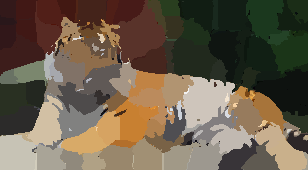
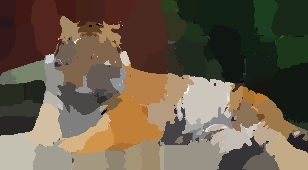
asd

diff --git a/Lab3/mixture_prob.m b/Lab3/mixture_prob.m
@@ -1,0 +1,76 @@
+function prob = mixture_prob(image, K, L, mask)
+    [col, row, channels] = size(image);
+    
+   
+    
+    Ivec = double(reshape(image, col*row, channels));
+    Mvec = double(reshape(mask, col*row, 1));
+    %I = image .* repmat(mask, [1,1,3]);
+    I = (bsxfun(@times, Ivec, cast(Mvec,class(Ivec))));
+    cov = cell(K,1);
+    w = zeros(K,1);
+    w(:) = 1/K;
+    u = zeros(K,3);
+    maskedP = find(Mvec);
+    if size(maskedP,1) == 0
+        prob = zeros(col,row);
+        return;
+    end
+    for k = 1:K
+        i = maskedP(randi(size(maskedP,1)));
+        u(k,:) = I(i,:);
+        cov{k} = eye(3);
+    end
+    
+    g = zeros(K, col*row);
+    %p = zeros(K, col*row);
+    for l = 1:L
+        %calculate g
+        for k = 1:K
+            g(k,:) = mvnpdf(I,u(k),cov{k});
+        end
+        %calculate p
+        lowerSum = w' * g;
+        lowerSum(lowerSum == 0) = 1;
+        base = repmat(w, [1,col*row]) .* g;
+        p = base ./ lowerSum;
+        %for i = 1:col*row
+        %   wgk = w .* g(:,i);
+        %   lower = sum(wgk);
+        %   p(:,i) = wgk ./ lower;         
+        %end
+        %calculate w
+        w = mean(p,2);
+        %calculate mean
+        lowerSum = sum(p,2);
+        
+        u =  (p * I) ./ lowerSum;
+        
+        %calculate cov
+        for k = 1:K
+            cov{k} = zeros(channels,channels);
+            for i = 1:col*row
+                diff = I(i,:) - u(k,:);
+                diff = p(k,i).*(diff' * diff);
+                cov{k} = cov{k} + diff;
+            end
+           %diff = I - repmat(u(k,:), [col*row,1]);
+           %diff = 
+           %left = repmat(p(k,:)',[1,3]);
+           %disp(size(diff));
+           %left = diff .* left;
+           %cov{k} = left ./ lowerSum(k);
+        end
+                
+    end
+    
+    prob = sum(repmat(w, [1,col*row]) .* g,1);
+    disp(size(prob));
+    %prob = bsxfun(@times, prob, Mvec');
+    
+    
+    %prob = uint8(reshape(I, col, row, channels));
+    
+    
+end
+

diff --git a/Lab3/bildat_lab3/norm_cuts_example.m b/Lab3/bildat_lab3/norm_cuts_example.m
@@ -1,9 +1,9 @@
-colour_bandwidth = 20.0; % color bandwidth
+colour_bandwidth = 8.0; % color bandwidth
 radius = 3;              % maximum neighbourhood distance
-ncuts_thresh = 0.2;      % cutting threshold
+ncuts_thresh = 0.5;      % cutting threshold
 min_area = 200;          % minimum area of segment
 max_depth = 8;           % maximum splitting depth
-scale_factor = 0.4;      % image downscale factor
+scale_factor = 0.5;      % image downscale factor
 image_sigma = 2.0;       % image preblurring scale
 
 I = imread('tiger2.jpg');
@@ -16,6 +16,9 @@ I = imfilter(I, h);
 segm = norm_cuts_segm(I, colour_bandwidth, radius, ncuts_thresh, min_area, max_depth);
 Inew = mean_segments(Iback, segm);
 I = overlay_bounds(Iback, segm);
-imwrite(Inew,'result/normcuts1.png')
-imwrite(I,'result/normcuts2.png')
+imwrite(Inew,'bildat_lab3/result/normcuts1.png')
+imwrite(I,'bildat_lab3/result/normcuts2.png')
+subplot(1,2,1); imshow(Inew);
+subplot(1,2,2); imshow(I);
+
 

diff --git a/Lab3/bildat_lab3/graphcut_example.m b/Lab3/bildat_lab3/graphcut_example.m
@@ -1,5 +1,5 @@
 scale_factor = 0.5;          % image downscale factor
-area = [ 80, 110, 570, 300 ] % image region to train foreground with
+area = [ 80, 110, 570, 300 ];% image region to train foreground with
 K = 16;                      % number of mixture components
 alpha = 8.0;                 % maximum edge cost
 sigma = 10.0;                % edge cost decay factor
@@ -12,9 +12,9 @@ area = int16(area*scale_factor);
 
 Inew = mean_segments(Iback, segm);
 I = overlay_bounds(Iback, segm);
-imwrite(Inew,'result/graphcut1.png')
-imwrite(I,'result/graphcut2.png')
-imwrite(prior,'result/graphcut3.png')
-subplot(2,2,1); imshow(Inew);
-subplot(2,2,2); imshow(I);
-subplot(2,2,3); imshow(prior);
+imwrite(Inew,'bildat_lab3/result/graphcut1.png')
+imwrite(I,'bildat_lab3/result/graphcut2.png')
+imwrite(prior,'bildat_lab3/result/graphcut3.png')
+%subplot(2,2,1); imshow(Inew);
+%subplot(2,2,2); imshow(I);
+%subplot(2,2,3); imshow(prior);

diff --git a/Lab3/bildat_lab3/graphcut_segm.m b/Lab3/bildat_lab3/graphcut_segm.m
@@ -7,7 +7,6 @@ dh = area(4) - area(2) + 1;
 mask = uint8([zeros(area(2)-1,w); zeros(dh,area(1)-1), ones(dh,dw), ...
 	     zeros(dh,w-area(3)); zeros(h-area(4),w)]);
 Ivec = single(reshape(I, size(I,1)*size(I,2), 3));
-
 grey = single(rgb2gray(I));
 h = fspecial('gaussian', [7,7], 0.5);
 grey = imfilter(grey, h);
@@ -24,6 +23,8 @@ for l=1:3
     fprob = mixture_prob(I, K, 10, mask);
     bprob = mixture_prob(I, K, 10, 1-mask);
     prior = reshape(fprob ./ (fprob + bprob), size(I,1), size(I,2), 1);
+    showgrey(prior);
+    
     toc
 
     fprintf('Find minimum cut...\n');

diff --git a/Lab3/bildat_lab3/mean_shift_example.m b/Lab3/bildat_lab3/mean_shift_example.m
@@ -1,8 +1,8 @@
 scale_factor = 0.5;       % image downscale factor
-spatial_bandwidth = 10.0;  % spatial bandwidth
+spatial_bandwidth = 9.0;  % spatial bandwidth
 colour_bandwidth = 5.0;   % colour bandwidth
 num_iterations = 40;      % number of mean-shift iterations
-image_sigma = 1.0;        % image preblurring scale
+image_sigma = 1.1;        % image preblurring scale
 
 I = imread('tiger1.jpg');
 I = imresize(I, scale_factor);
